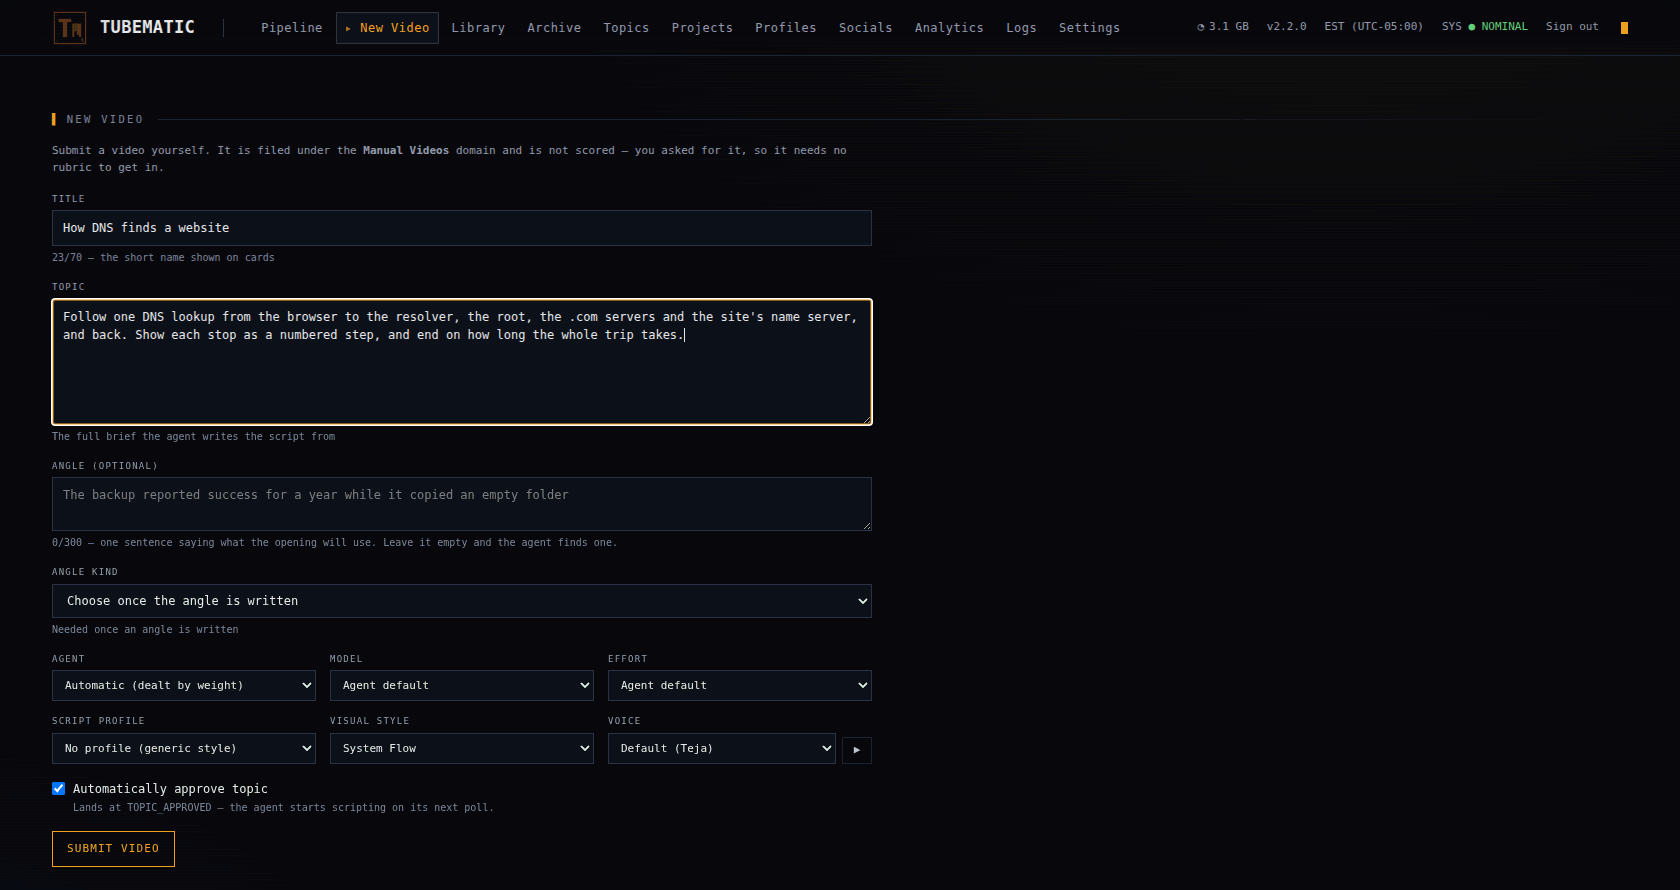
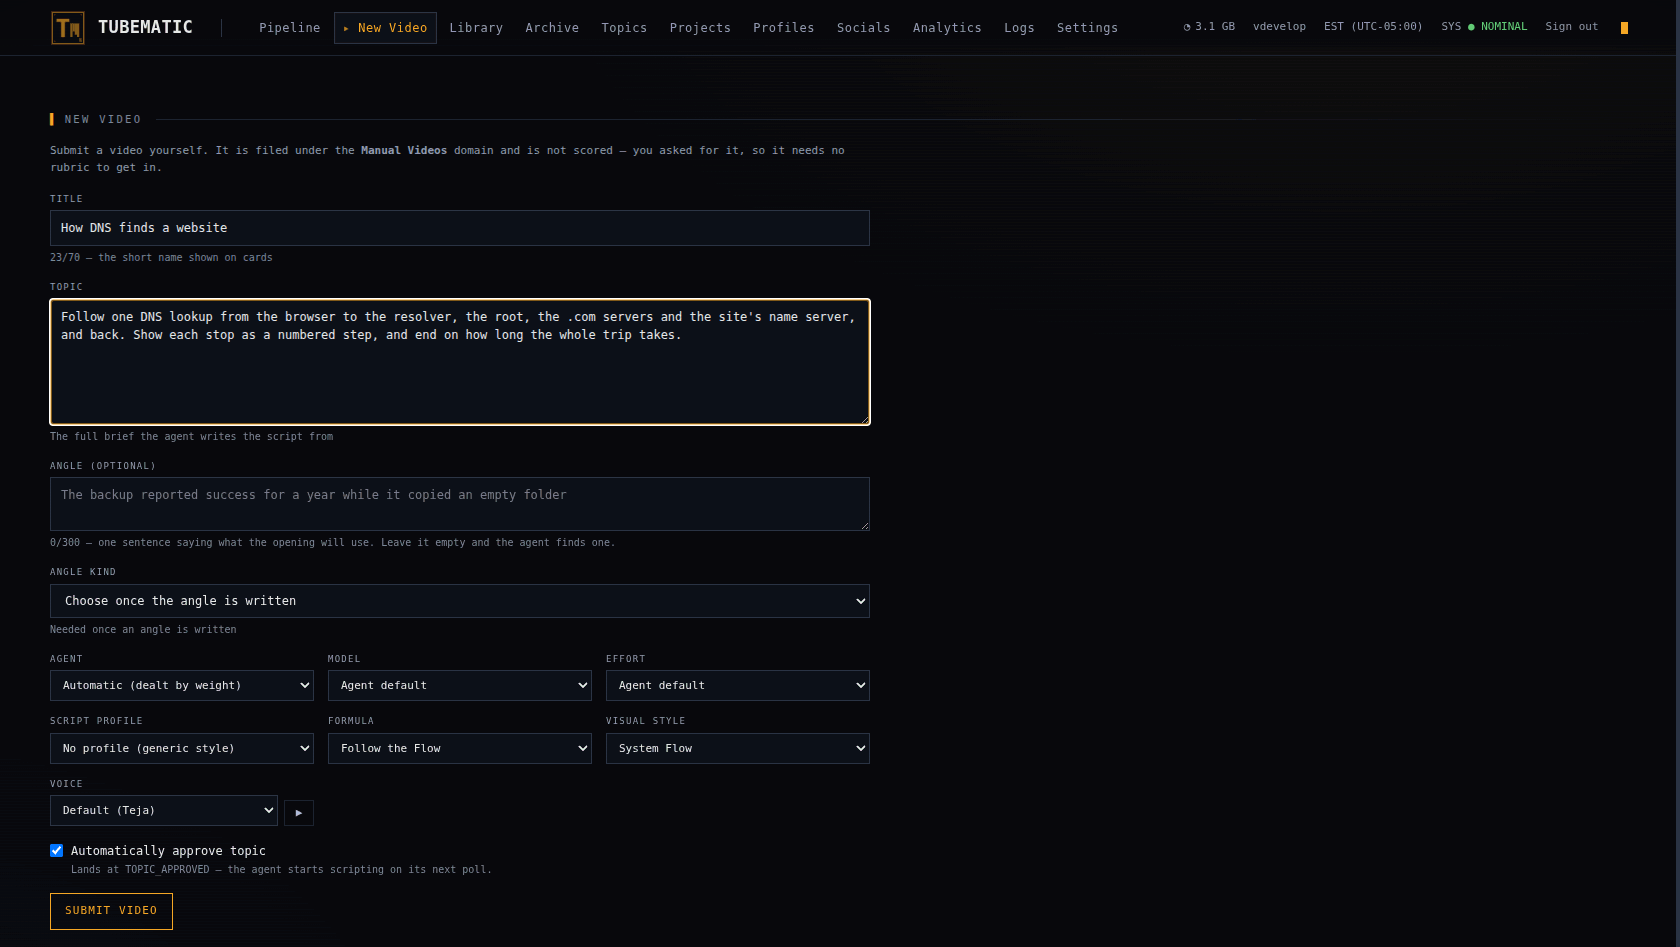
Topics: widen the defaults groups so no picker cuts its text; re-take new-video and topics screenshots
The Formula picker made Narration three pickers wide, which clipped the agent,
mascot and effort pickers at 1680px (found in the Kasm live test). The Agent
group now wraps onto its own line instead. The e2e inside-panel check covers
the formula picker.

diff --git a/dashboard/app/topics/page.tsx b/dashboard/app/topics/page.tsx
@@ -209,8 +209,11 @@ function DomainField({ label, flex, children }: {
 // A group of related defaults with the one sentence that says which videos
 // they reach. The seven defaults do not all apply to the same videos (the
 // style and profile start curriculum videos only), and a bare row of pickers
-// gave no place to say so.
-function DomainGroup({ title, accent, note, flex = "1 1 220px", children }: {
+// gave no place to say so. The bases are what each group needs for its
+// pickers to show their longest usual value ("Automatic (dealt by weight)",
+// "Use install default") in full: where three groups do not fit on one line,
+// the Agent group wraps onto its own line instead of cutting text short.
+function DomainGroup({ title, accent, note, flex = "1.1 1 360px", children }: {
   title: string; accent?: boolean; note: string; flex?: string; children: React.ReactNode;
 }) {
   return (
@@ -267,7 +270,7 @@ function DomainDefaults({ values, onChange, testId, lists, canIllustrate, gpu }:
         </div>
       </DomainGroup>
 
-      <DomainGroup title="Narration" flex="1.4 1 300px"
+      <DomainGroup title="Narration" flex="1.5 1 540px"
                    note="The voice and the formula start every new video. The profile starts curriculum videos.">
         <div style={{ display: "flex", gap: 8 }}>
           <DomainField label="Default voice" flex="1 1 0">
@@ -288,7 +291,7 @@ function DomainDefaults({ values, onChange, testId, lists, canIllustrate, gpu }:
         </div>
       </DomainGroup>
 
-      <DomainGroup title="Agent" accent flex="1.4 1 300px"
+      <DomainGroup title="Agent" accent flex="1.6 1 600px"
                    note="New videos in this domain start on this agent. Automatic deals one by weight. You can still change it on each video.">
         <div style={{ display: "flex", gap: 8 }}>
           <DomainField label="Agent" flex="1.3 1 0">

diff --git a/dashboard/tests/e2e/specs/topics.spec.ts b/dashboard/tests/e2e/specs/topics.spec.ts
@@ -224,7 +224,7 @@ test.describe("Topics page", () => {
       expect(panelBox.x).toBeGreaterThanOrEqual(rowBox.x);
       expect(panelBox.x + panelBox.width).toBeLessThanOrEqual(rowBox.x + rowBox.width + 1);
       for (const id of ["domain-style", "domain-mascot", "domain-voice", "domain-profile",
-                        "domain-agent", "domain-agent-model", "domain-agent-effort", "domain-cap"]) {
+                        "domain-formula", "domain-agent", "domain-agent-model", "domain-agent-effort", "domain-cap"]) {
         const box = (await page.getByTestId(`${id}-${slug}`).boundingBox())!;
         expect(box.x, id).toBeGreaterThanOrEqual(panelBox.x);
         expect(box.x + box.width, id).toBeLessThanOrEqual(panelBox.x + panelBox.width);

diff --git a/docs/user-guide/03-using-tubematic.md b/docs/user-guide/03-using-tubematic.md
@@ -143,7 +143,7 @@ script and records it on the video. When your topic offers none, the agent says 
 and writes the script from the topic alone. The same happens to a topic that was proposed before
 angles existed.
 
-![The Topics page: three research mode switches, a list of mining sources, the form that adds a domain, and one row per domain with its pause button and its Edit defaults button. The first domain is open and shows its style, voice, agent and topic cap](../images/topics.png)
+![The Topics page: three research mode switches, a list of mining sources, the form that adds a domain, and one row per domain with its pause button and its Edit defaults button. The second domain is open and shows its style, voice, formula, agent and topic cap](../images/topics.png)
 
 ### Adding a domain
 

diff --git a/docs/user-guide/04-dashboard.md b/docs/user-guide/04-dashboard.md
@@ -152,7 +152,7 @@ To save the video, use the player's own menu, or take the file from
 
 Creates a video from a topic you type.
 
-![The New Video page with a title, a topic and a visual style chosen](../images/new-video.png)
+![The New Video page with a title, a topic, a formula and a visual style chosen](../images/new-video.png)
 
 | Field | Notes |
 |---|---|
